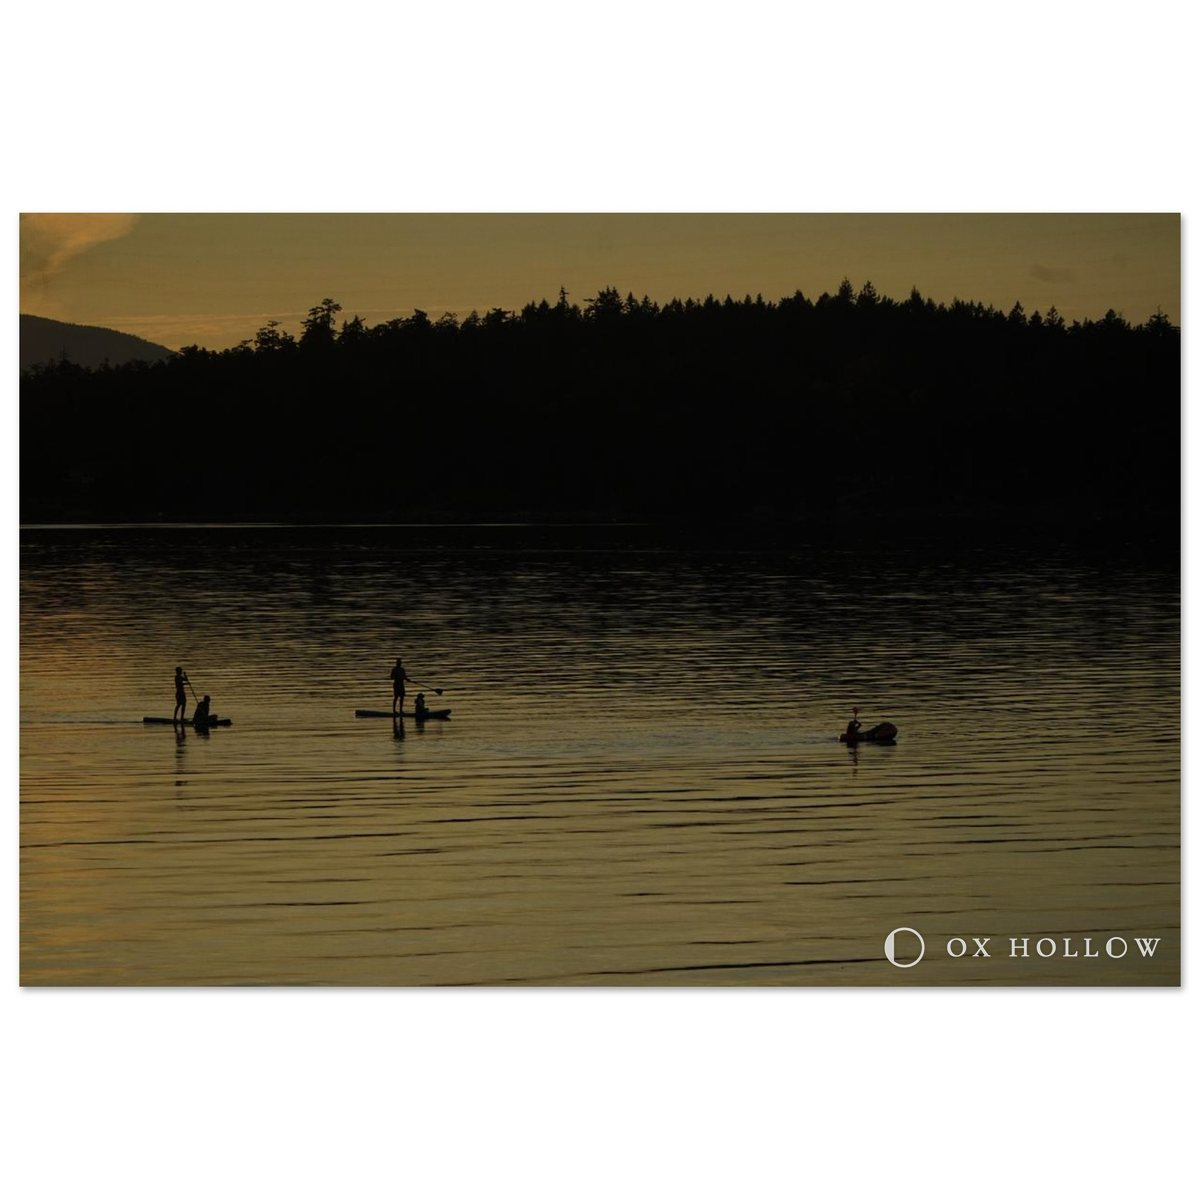
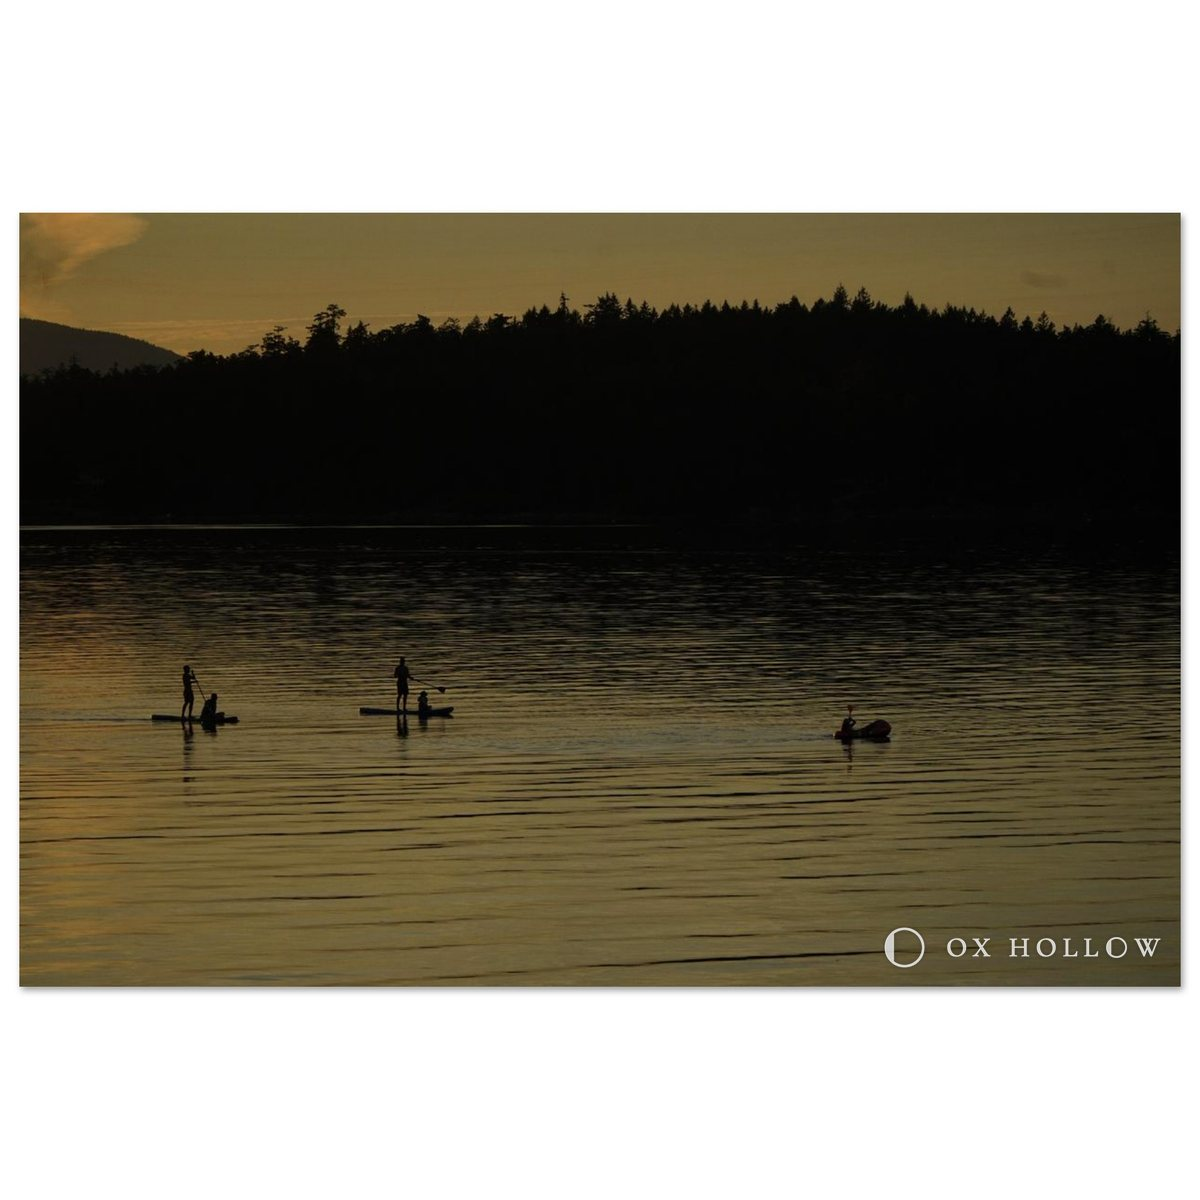
Wood and Acrylic for Mountain Majesty, Tidal Twilight, Sun on the Tide remade (the earlier listings had no Gelato design or previews); Gelato previews added

diff --git a/prints/sun-on-the-tide.html b/prints/sun-on-the-tide.html
@@ -85,7 +85,7 @@
           <p class="detail-lede">Low sun laying a path of light across tidal water on Cape Cod.</p>
           <p class="detail-spec">Archival matte fine-art paper, 200gsm, framed in black, white or oak, with a white border inside the frame · made to order</p>
           <div class="materials is-primary">
-            <div class="mat-tabs"><input type="radio" name="mat-sun-on-the-tide" id="mat-sun-on-the-tide-framed" class="mat-radio" checked><label for="mat-sun-on-the-tide-framed" class="mat-tab">Framed print</label><input type="radio" name="mat-sun-on-the-tide" id="mat-sun-on-the-tide-framed_canvas" class="mat-radio"><label for="mat-sun-on-the-tide-framed_canvas" class="mat-tab">Framed canvas</label><input type="radio" name="mat-sun-on-the-tide" id="mat-sun-on-the-tide-wood" class="mat-radio"><label for="mat-sun-on-the-tide-wood" class="mat-tab">Wood</label><input type="radio" name="mat-sun-on-the-tide" id="mat-sun-on-the-tide-acrylic" class="mat-radio"><label for="mat-sun-on-the-tide-acrylic" class="mat-tab">Acrylic</label>
+            <div class="mat-tabs"><input type="radio" name="mat-sun-on-the-tide" id="mat-sun-on-the-tide-framed" class="mat-radio" checked><label for="mat-sun-on-the-tide-framed" class="mat-tab">Framed print</label><input type="radio" name="mat-sun-on-the-tide" id="mat-sun-on-the-tide-framed_canvas" class="mat-radio"><label for="mat-sun-on-the-tide-framed_canvas" class="mat-tab">Framed canvas</label><input type="radio" name="mat-sun-on-the-tide" id="mat-sun-on-the-tide-wood" class="mat-radio" data-preview="/images/mockups/sun-on-the-tide-wood.jpg"><label for="mat-sun-on-the-tide-wood" class="mat-tab">Wood</label><input type="radio" name="mat-sun-on-the-tide" id="mat-sun-on-the-tide-acrylic" class="mat-radio" data-preview="/images/mockups/sun-on-the-tide-acrylic.jpg"><label for="mat-sun-on-the-tide-acrylic" class="mat-tab">Acrylic</label>
             <div class="mat-panel" data-mat="framed">
               <div class="frame-pick"><span class="frame-label">Frame</span><input type="radio" name="frame-sun-on-the-tide-framed" id="frame-sun-on-the-tide-framed-black" class="frame-radio" data-preview="/images/mockups/sun-on-the-tide-framed-black.jpg" checked><label for="frame-sun-on-the-tide-framed-black" class="frame-tab"><span class="frame-swatch frame-black"></span>Black</label><input type="radio" name="frame-sun-on-the-tide-framed" id="frame-sun-on-the-tide-framed-white" class="frame-radio" data-preview="/images/mockups/sun-on-the-tide-framed-white.jpg"><label for="frame-sun-on-the-tide-framed-white" class="frame-tab"><span class="frame-swatch frame-white"></span>White</label><input type="radio" name="frame-sun-on-the-tide-framed" id="frame-sun-on-the-tide-framed-oak" class="frame-radio" data-preview="/images/mockups/sun-on-the-tide-framed-oak.jpg"><label for="frame-sun-on-the-tide-framed-oak" class="frame-tab"><span class="frame-swatch frame-oak"></span>Oak</label><input type="radio" name="frame-sun-on-the-tide-framed" id="frame-sun-on-the-tide-framed-none" class="frame-radio" data-preview="/images/portfolio/ocean/21-sun-on-the-water.jpg"><label for="frame-sun-on-the-tide-framed-none" class="frame-tab"><span class="frame-swatch frame-none"></span>No frame</label>
                 <div class="frame-panel" data-frame="black">
@@ -193,30 +193,30 @@
               </div>
             </div>
             <div class="mat-panel" data-mat="wood">
-              <a class="buy-btn" href="https://sessjk-nj.myshopify.com/cart/67759598764274:1" rel="nofollow">
+              <a class="buy-btn" href="https://sessjk-nj.myshopify.com/cart/67796621164786:1" rel="nofollow">
                 <span class="size">Buy 8×12″</span><span class="price">$80</span>
               </a>
-              <a class="buy-btn" href="https://sessjk-nj.myshopify.com/cart/67759598797042:1" rel="nofollow">
+              <a class="buy-btn" href="https://sessjk-nj.myshopify.com/cart/67796621197554:1" rel="nofollow">
                 <span class="size">Buy 12×18″</span><span class="price">$125</span>
               </a>
-              <a class="buy-btn" href="https://sessjk-nj.myshopify.com/cart/67759598829810:1" rel="nofollow">
+              <a class="buy-btn" href="https://sessjk-nj.myshopify.com/cart/67796621230322:1" rel="nofollow">
                 <span class="size">Buy 16×24″</span><span class="price">$160</span>
               </a>
-              <a class="buy-btn" href="https://sessjk-nj.myshopify.com/cart/67759598862578:1" rel="nofollow">
+              <a class="buy-btn" href="https://sessjk-nj.myshopify.com/cart/67796621263090:1" rel="nofollow">
                 <span class="size">Buy 24×36″</span><span class="price">$225</span>
               </a>
             </div>
             <div class="mat-panel" data-mat="acrylic">
-              <a class="buy-btn" href="https://sessjk-nj.myshopify.com/cart/67759597879538:1" rel="nofollow">
+              <a class="buy-btn" href="https://sessjk-nj.myshopify.com/cart/67796625359090:1" rel="nofollow">
                 <span class="size">Buy 8×12″</span><span class="price">$75</span>
               </a>
-              <a class="buy-btn" href="https://sessjk-nj.myshopify.com/cart/67759597912306:1" rel="nofollow">
+              <a class="buy-btn" href="https://sessjk-nj.myshopify.com/cart/67796625391858:1" rel="nofollow">
                 <span class="size">Buy 12×18″</span><span class="price">$100</span>
               </a>
-              <a class="buy-btn" href="https://sessjk-nj.myshopify.com/cart/67759597945074:1" rel="nofollow">
+              <a class="buy-btn" href="https://sessjk-nj.myshopify.com/cart/67796625424626:1" rel="nofollow">
                 <span class="size">Buy 16×24″</span><span class="price">$130</span>
               </a>
-              <a class="buy-btn" href="https://sessjk-nj.myshopify.com/cart/67759597977842:1" rel="nofollow">
+              <a class="buy-btn" href="https://sessjk-nj.myshopify.com/cart/67796625457394:1" rel="nofollow">
                 <span class="size">Buy 24×36″</span><span class="price">$210</span>
               </a>
             </div>

diff --git a/prints/tidal-twilight.html b/prints/tidal-twilight.html
@@ -85,7 +85,7 @@
           <p class="detail-lede">Tidal marsh and still water under a warm dusk sky on Cape Cod.</p>
           <p class="detail-spec">Archival matte fine-art paper, 200gsm, framed in black, white or oak, with a white border inside the frame · made to order</p>
           <div class="materials is-primary">
-            <div class="mat-tabs"><input type="radio" name="mat-tidal-twilight" id="mat-tidal-twilight-framed" class="mat-radio" checked><label for="mat-tidal-twilight-framed" class="mat-tab">Framed print</label><input type="radio" name="mat-tidal-twilight" id="mat-tidal-twilight-framed_canvas" class="mat-radio"><label for="mat-tidal-twilight-framed_canvas" class="mat-tab">Framed canvas</label><input type="radio" name="mat-tidal-twilight" id="mat-tidal-twilight-wood" class="mat-radio"><label for="mat-tidal-twilight-wood" class="mat-tab">Wood</label><input type="radio" name="mat-tidal-twilight" id="mat-tidal-twilight-acrylic" class="mat-radio"><label for="mat-tidal-twilight-acrylic" class="mat-tab">Acrylic</label>
+            <div class="mat-tabs"><input type="radio" name="mat-tidal-twilight" id="mat-tidal-twilight-framed" class="mat-radio" checked><label for="mat-tidal-twilight-framed" class="mat-tab">Framed print</label><input type="radio" name="mat-tidal-twilight" id="mat-tidal-twilight-framed_canvas" class="mat-radio"><label for="mat-tidal-twilight-framed_canvas" class="mat-tab">Framed canvas</label><input type="radio" name="mat-tidal-twilight" id="mat-tidal-twilight-wood" class="mat-radio" data-preview="/images/mockups/tidal-twilight-wood.jpg"><label for="mat-tidal-twilight-wood" class="mat-tab">Wood</label><input type="radio" name="mat-tidal-twilight" id="mat-tidal-twilight-acrylic" class="mat-radio" data-preview="/images/mockups/tidal-twilight-acrylic.jpg"><label for="mat-tidal-twilight-acrylic" class="mat-tab">Acrylic</label>
             <div class="mat-panel" data-mat="framed">
               <div class="frame-pick"><span class="frame-label">Frame</span><input type="radio" name="frame-tidal-twilight-framed" id="frame-tidal-twilight-framed-black" class="frame-radio" data-preview="/images/mockups/tidal-twilight-framed-black.jpg" checked><label for="frame-tidal-twilight-framed-black" class="frame-tab"><span class="frame-swatch frame-black"></span>Black</label><input type="radio" name="frame-tidal-twilight-framed" id="frame-tidal-twilight-framed-white" class="frame-radio" data-preview="/images/mockups/tidal-twilight-framed-white.jpg"><label for="frame-tidal-twilight-framed-white" class="frame-tab"><span class="frame-swatch frame-white"></span>White</label><input type="radio" name="frame-tidal-twilight-framed" id="frame-tidal-twilight-framed-oak" class="frame-radio" data-preview="/images/mockups/tidal-twilight-framed-oak.jpg"><label for="frame-tidal-twilight-framed-oak" class="frame-tab"><span class="frame-swatch frame-oak"></span>Oak</label><input type="radio" name="frame-tidal-twilight-framed" id="frame-tidal-twilight-framed-none" class="frame-radio" data-preview="/images/portfolio/ocean/20-marsh-at-dusk.jpg"><label for="frame-tidal-twilight-framed-none" class="frame-tab"><span class="frame-swatch frame-none"></span>No frame</label>
                 <div class="frame-panel" data-frame="black">
@@ -193,30 +193,30 @@
               </div>
             </div>
             <div class="mat-panel" data-mat="wood">
-              <a class="buy-btn" href="https://sessjk-nj.myshopify.com/cart/67759589425394:1" rel="nofollow">
+              <a class="buy-btn" href="https://sessjk-nj.myshopify.com/cart/67796616413426:1" rel="nofollow">
                 <span class="size">Buy 8×12″</span><span class="price">$80</span>
               </a>
-              <a class="buy-btn" href="https://sessjk-nj.myshopify.com/cart/67759589458162:1" rel="nofollow">
+              <a class="buy-btn" href="https://sessjk-nj.myshopify.com/cart/67796616446194:1" rel="nofollow">
                 <span class="size">Buy 12×18″</span><span class="price">$125</span>
               </a>
-              <a class="buy-btn" href="https://sessjk-nj.myshopify.com/cart/67759589490930:1" rel="nofollow">
+              <a class="buy-btn" href="https://sessjk-nj.myshopify.com/cart/67796616478962:1" rel="nofollow">
                 <span class="size">Buy 16×24″</span><span class="price">$160</span>
               </a>
-              <a class="buy-btn" href="https://sessjk-nj.myshopify.com/cart/67759589523698:1" rel="nofollow">
+              <a class="buy-btn" href="https://sessjk-nj.myshopify.com/cart/67796616511730:1" rel="nofollow">
                 <span class="size">Buy 24×36″</span><span class="price">$225</span>
               </a>
             </div>
             <div class="mat-panel" data-mat="acrylic">
-              <a class="buy-btn" href="https://sessjk-nj.myshopify.com/cart/67759600566514:1" rel="nofollow">
+              <a class="buy-btn" href="https://sessjk-nj.myshopify.com/cart/67796623130866:1" rel="nofollow">
                 <span class="size">Buy 8×12″</span><span class="price">$75</span>
               </a>
-              <a class="buy-btn" href="https://sessjk-nj.myshopify.com/cart/67759600599282:1" rel="nofollow">
+              <a class="buy-btn" href="https://sessjk-nj.myshopify.com/cart/67796623163634:1" rel="nofollow">
                 <span class="size">Buy 12×18″</span><span class="price">$100</span>
               </a>
-              <a class="buy-btn" href="https://sessjk-nj.myshopify.com/cart/67759600632050:1" rel="nofollow">
+              <a class="buy-btn" href="https://sessjk-nj.myshopify.com/cart/67796623196402:1" rel="nofollow">
                 <span class="size">Buy 16×24″</span><span class="price">$130</span>
               </a>
-              <a class="buy-btn" href="https://sessjk-nj.myshopify.com/cart/67759600664818:1" rel="nofollow">
+              <a class="buy-btn" href="https://sessjk-nj.myshopify.com/cart/67796623229170:1" rel="nofollow">
                 <span class="size">Buy 24×36″</span><span class="price">$210</span>
               </a>
             </div>

diff --git a/prints/mountain-majesty.html b/prints/mountain-majesty.html
@@ -85,7 +85,7 @@
           <p class="detail-lede">Snowy peaks in blue shadow beneath breaking cloud.</p>
           <p class="detail-spec">Archival matte fine-art paper, 200gsm, framed in black, white or oak, with a white border inside the frame · made to order</p>
           <div class="materials is-primary">
-            <div class="mat-tabs"><input type="radio" name="mat-mountain-majesty" id="mat-mountain-majesty-framed" class="mat-radio" checked><label for="mat-mountain-majesty-framed" class="mat-tab">Framed print</label><input type="radio" name="mat-mountain-majesty" id="mat-mountain-majesty-framed_canvas" class="mat-radio"><label for="mat-mountain-majesty-framed_canvas" class="mat-tab">Framed canvas</label><input type="radio" name="mat-mountain-majesty" id="mat-mountain-majesty-wood" class="mat-radio"><label for="mat-mountain-majesty-wood" class="mat-tab">Wood</label><input type="radio" name="mat-mountain-majesty" id="mat-mountain-majesty-acrylic" class="mat-radio"><label for="mat-mountain-majesty-acrylic" class="mat-tab">Acrylic</label>
+            <div class="mat-tabs"><input type="radio" name="mat-mountain-majesty" id="mat-mountain-majesty-framed" class="mat-radio" checked><label for="mat-mountain-majesty-framed" class="mat-tab">Framed print</label><input type="radio" name="mat-mountain-majesty" id="mat-mountain-majesty-framed_canvas" class="mat-radio"><label for="mat-mountain-majesty-framed_canvas" class="mat-tab">Framed canvas</label><input type="radio" name="mat-mountain-majesty" id="mat-mountain-majesty-wood" class="mat-radio" data-preview="/images/mockups/mountain-majesty-wood.jpg"><label for="mat-mountain-majesty-wood" class="mat-tab">Wood</label><input type="radio" name="mat-mountain-majesty" id="mat-mountain-majesty-acrylic" class="mat-radio" data-preview="/images/mockups/mountain-majesty-acrylic.jpg"><label for="mat-mountain-majesty-acrylic" class="mat-tab">Acrylic</label>
             <div class="mat-panel" data-mat="framed">
               <div class="frame-pick"><span class="frame-label">Frame</span><input type="radio" name="frame-mountain-majesty-framed" id="frame-mountain-majesty-framed-black" class="frame-radio" data-preview="/images/mockups/mountain-majesty-framed-black.jpg" checked><label for="frame-mountain-majesty-framed-black" class="frame-tab"><span class="frame-swatch frame-black"></span>Black</label><input type="radio" name="frame-mountain-majesty-framed" id="frame-mountain-majesty-framed-white" class="frame-radio" data-preview="/images/mockups/mountain-majesty-framed-white.jpg"><label for="frame-mountain-majesty-framed-white" class="frame-tab"><span class="frame-swatch frame-white"></span>White</label><input type="radio" name="frame-mountain-majesty-framed" id="frame-mountain-majesty-framed-oak" class="frame-radio" data-preview="/images/mockups/mountain-majesty-framed-oak.jpg"><label for="frame-mountain-majesty-framed-oak" class="frame-tab"><span class="frame-swatch frame-oak"></span>Oak</label><input type="radio" name="frame-mountain-majesty-framed" id="frame-mountain-majesty-framed-none" class="frame-radio" data-preview="/images/portfolio/mountains/16-cloudbreak-ridge.jpg"><label for="frame-mountain-majesty-framed-none" class="frame-tab"><span class="frame-swatch frame-none"></span>No frame</label>
                 <div class="frame-panel" data-frame="black">
@@ -172,24 +172,24 @@
               </div>
             </div>
             <div class="mat-panel" data-mat="wood">
-              <a class="buy-btn" href="https://sessjk-nj.myshopify.com/cart/67759588901106:1" rel="nofollow">
+              <a class="buy-btn" href="https://sessjk-nj.myshopify.com/cart/67796627882226:1" rel="nofollow">
                 <span class="size">Buy 8×12″</span><span class="price">$80</span>
               </a>
-              <a class="buy-btn" href="https://sessjk-nj.myshopify.com/cart/67759588933874:1" rel="nofollow">
+              <a class="buy-btn" href="https://sessjk-nj.myshopify.com/cart/67796627914994:1" rel="nofollow">
                 <span class="size">Buy 12×18″</span><span class="price">$125</span>
               </a>
-              <a class="buy-btn" href="https://sessjk-nj.myshopify.com/cart/67759588966642:1" rel="nofollow">
+              <a class="buy-btn" href="https://sessjk-nj.myshopify.com/cart/67796627947762:1" rel="nofollow">
                 <span class="size">Buy 16×24″</span><span class="price">$160</span>
               </a>
             </div>
             <div class="mat-panel" data-mat="acrylic">
-              <a class="buy-btn" href="https://sessjk-nj.myshopify.com/cart/67759591391474:1" rel="nofollow">
+              <a class="buy-btn" href="https://sessjk-nj.myshopify.com/cart/67796615168242:1" rel="nofollow">
                 <span class="size">Buy 8×12″</span><span class="price">$75</span>
               </a>
-              <a class="buy-btn" href="https://sessjk-nj.myshopify.com/cart/67759591424242:1" rel="nofollow">
+              <a class="buy-btn" href="https://sessjk-nj.myshopify.com/cart/67796615201010:1" rel="nofollow">
                 <span class="size">Buy 12×18″</span><span class="price">$100</span>
               </a>
-              <a class="buy-btn" href="https://sessjk-nj.myshopify.com/cart/67759591457010:1" rel="nofollow">
+              <a class="buy-btn" href="https://sessjk-nj.myshopify.com/cart/67796615233778:1" rel="nofollow">
                 <span class="size">Buy 16×24″</span><span class="price">$130</span>
               </a>
             </div>
